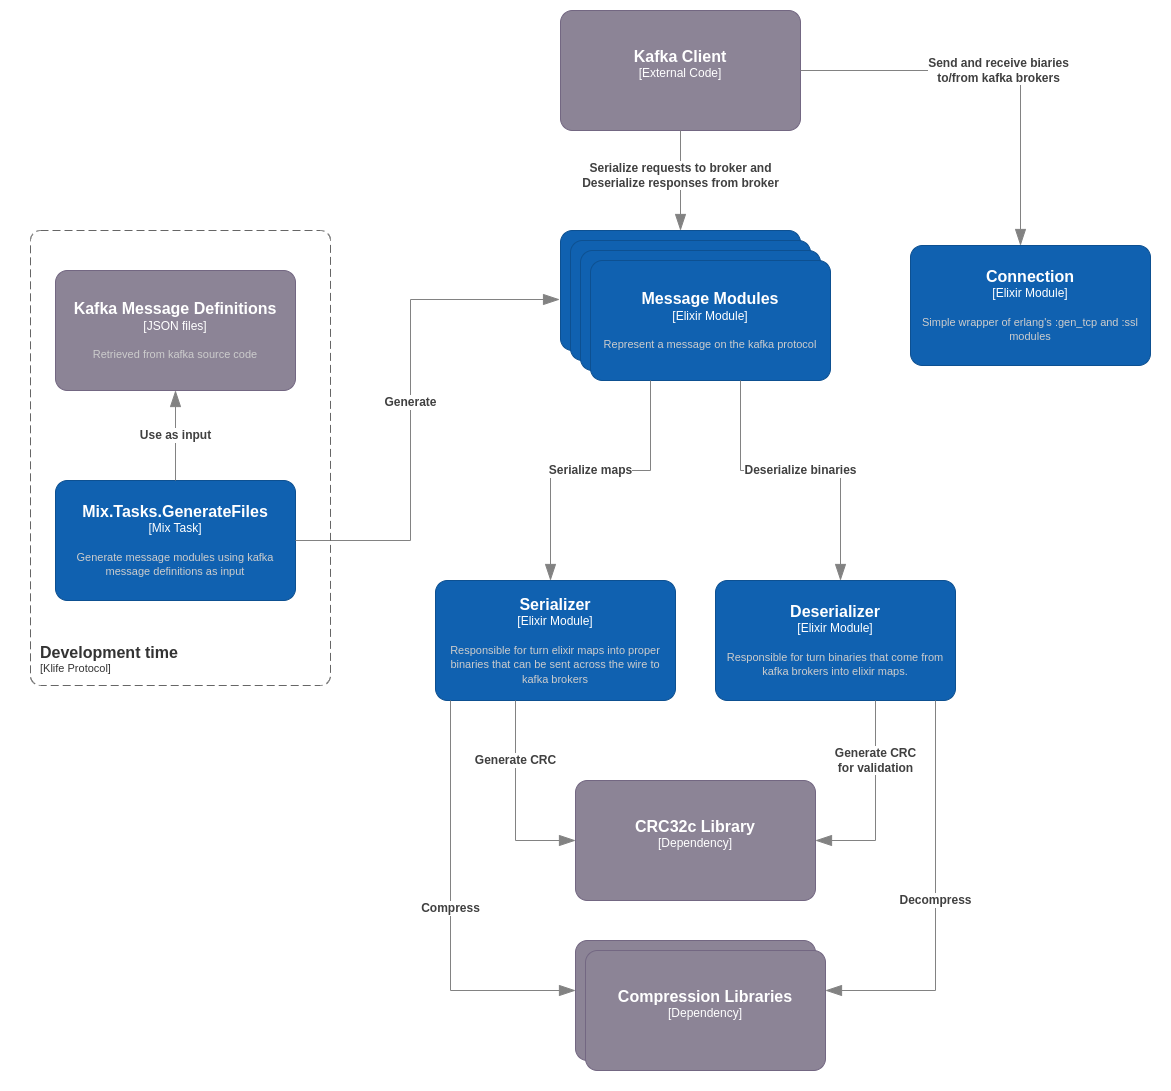
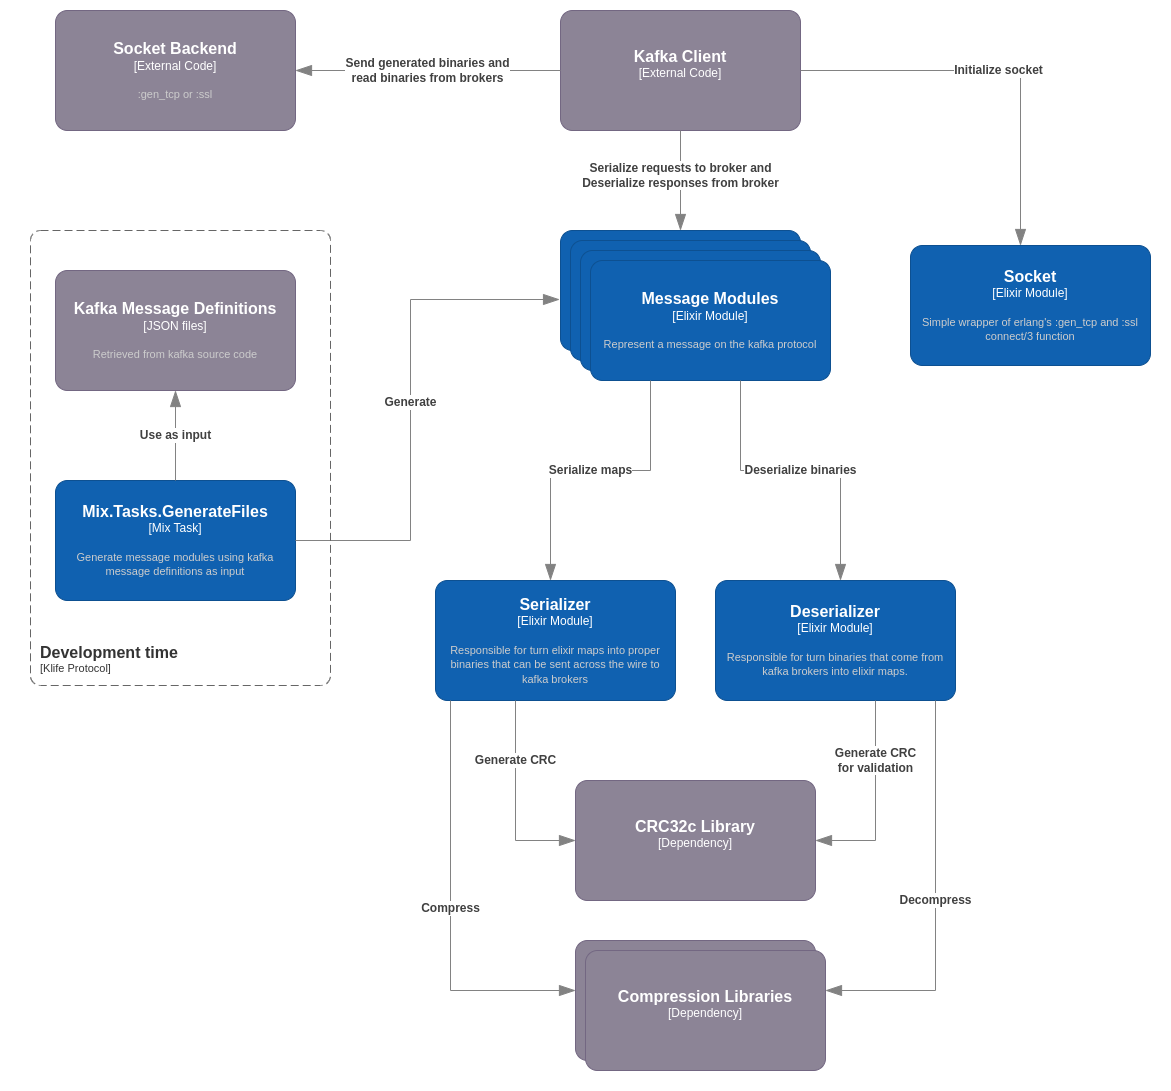
chore(connection): redesign to handle only socket initialization

diff --git a/README.md b/README.md
@@ -15,15 +15,16 @@ This implementation of the Kafka protocol supports all currently available messa
 This is an example of usage that creates a connection with a broker, send the API version message and handle the response.
 
 ```elixir
-alias KlifeProtocol.Connection
+alias KlifeProtocol.Socket
 alias KlifeProtocol.Messages
 
-{:ok, conn} = Connection.new("localhost:19092")
+
+{:ok, socket} = Socket.connect("localhost", 19092, [backend: :gen_tcp, active: false])
 version = 0
 input = %{headers: %{correlation_id: 123}, content: %{}}
 serialized_msg = Messages.ApiVersions.serialize_request(input, version)
-:ok = Connection.send_data(conn, serialized_msg)
-{:ok, received_data} = Connection.read_data(conn)
+:ok = :gen_tcp.send(socket, serialized_msg)
+{:ok, received_data} = :gen_tcp.recv(socket, 0, 5_000)
 {:ok, response} = Messages.ApiVersions.deserialize_response(received_data, version)
 ```
 
@@ -189,7 +190,7 @@ The project is composed by 5 main components:
 
 - [Deserializer](./lib/klife_protocol/deserializer.ex): This module handles the conversion of binaries received from Kafka brokers into Elixir maps. It utilizes the schemas defined by the message modules.
 
-- [Connection](./lib/klife_protocol/connection.ex): Simple wrapper of `:gen_tcp` and `:ssl` erlang modules. Set socket opts that are needed to proper communicate with kafka broker (mainly `packet: 4`). Since it is a simple wrapper, clients may choose to set up their on connection or just initialize it with this module and extract the `socket` attribute and using it directly with `:gen_tcp` and `:ssl` modules.
+- [Socket](./lib/klife_protocol/Socket.ex): Simple wrapper of `:gen_tcp` and `:ssl` `connect/3` function that set socket opts that are needed to proper communicate with kafka broker `packet: 4` and `binary`. It is intended to be used only for the socket initialization, all other operations must be done using `:gen_tcp` or `:ssl` directly.
 
 ![](./overview.png "Project overview")
 ## Running Tests
